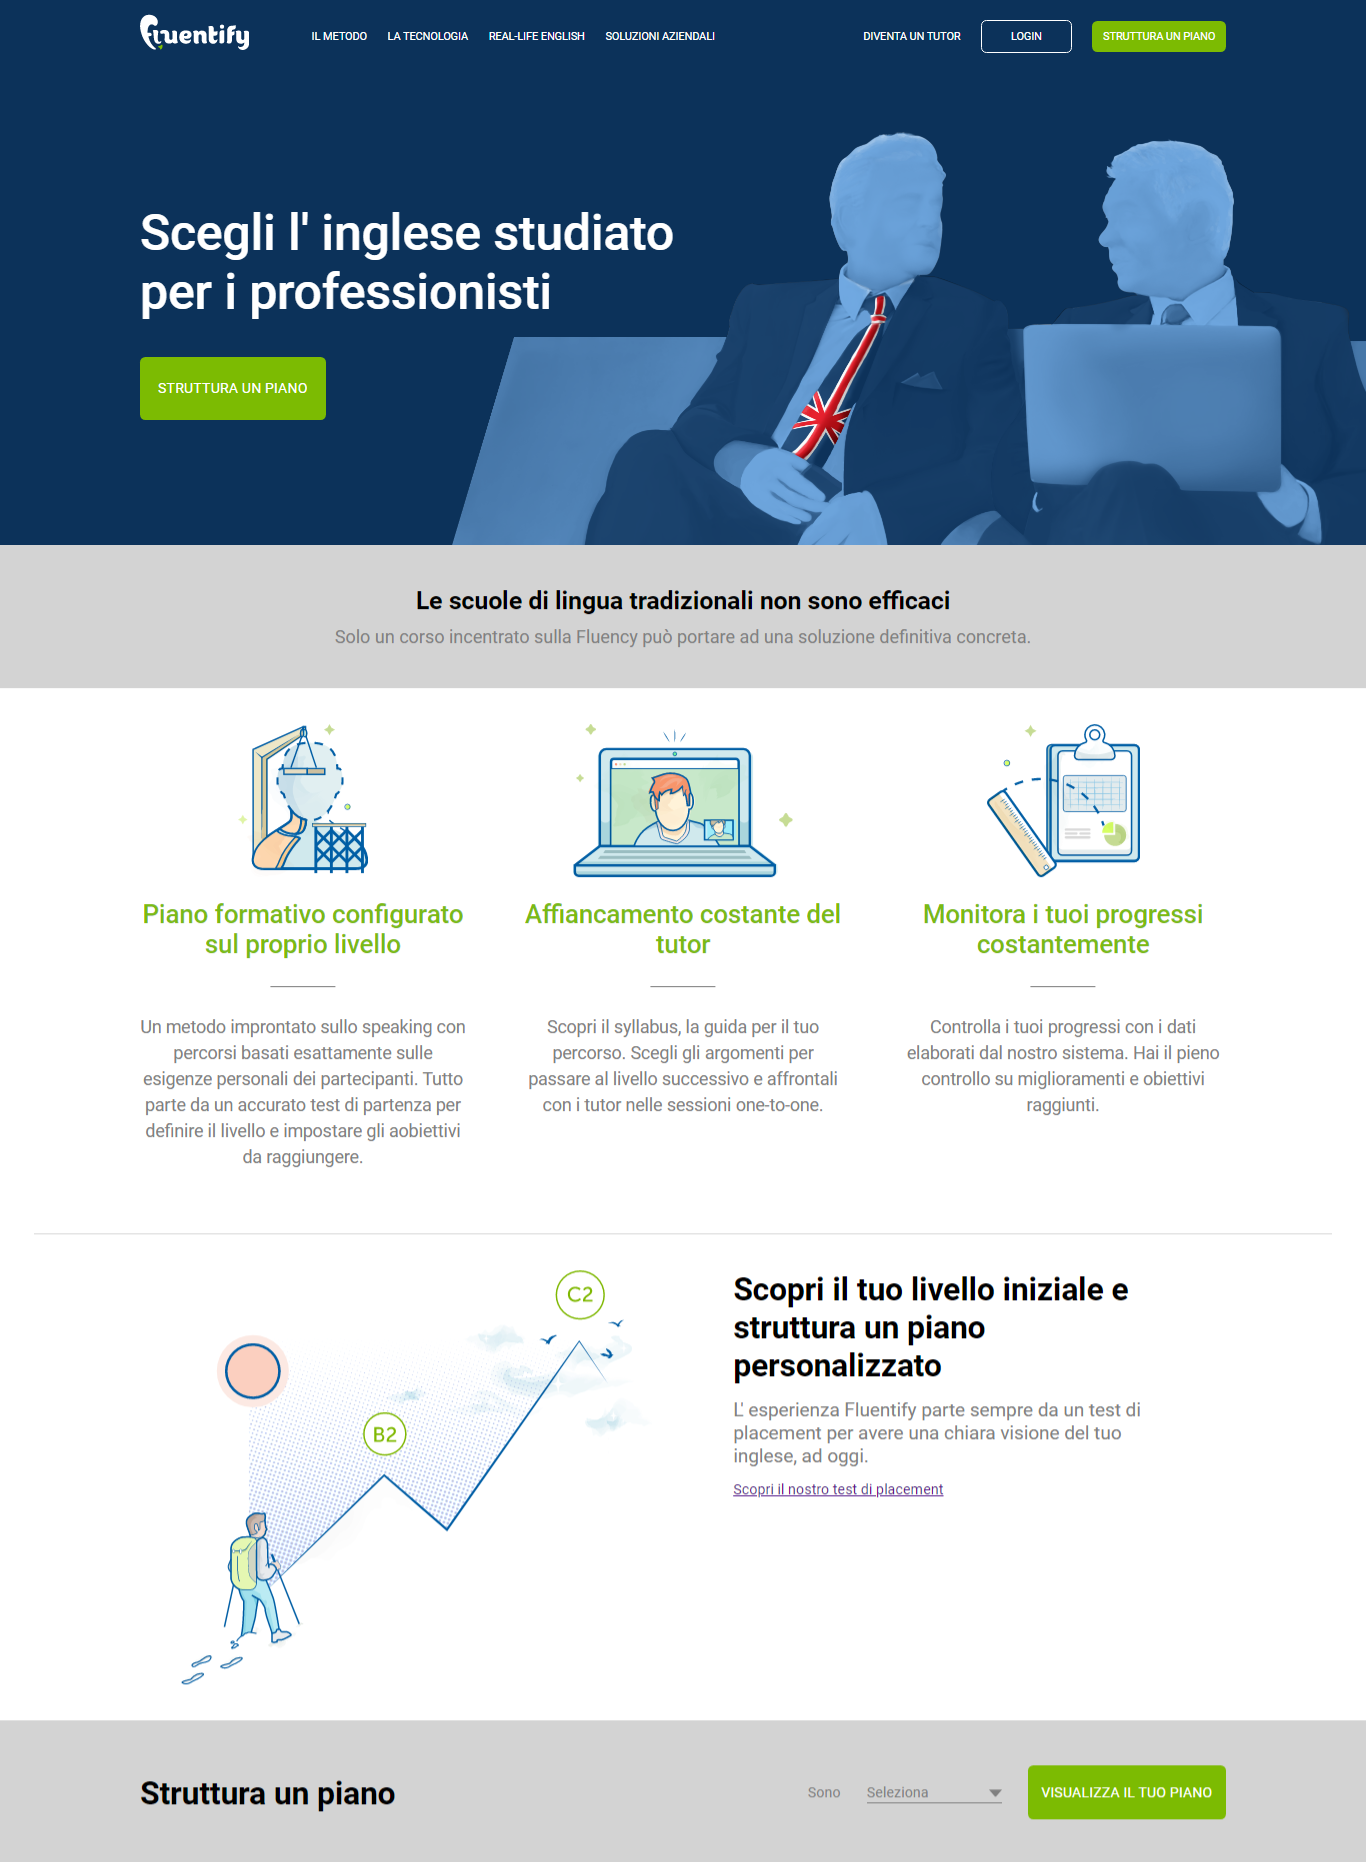
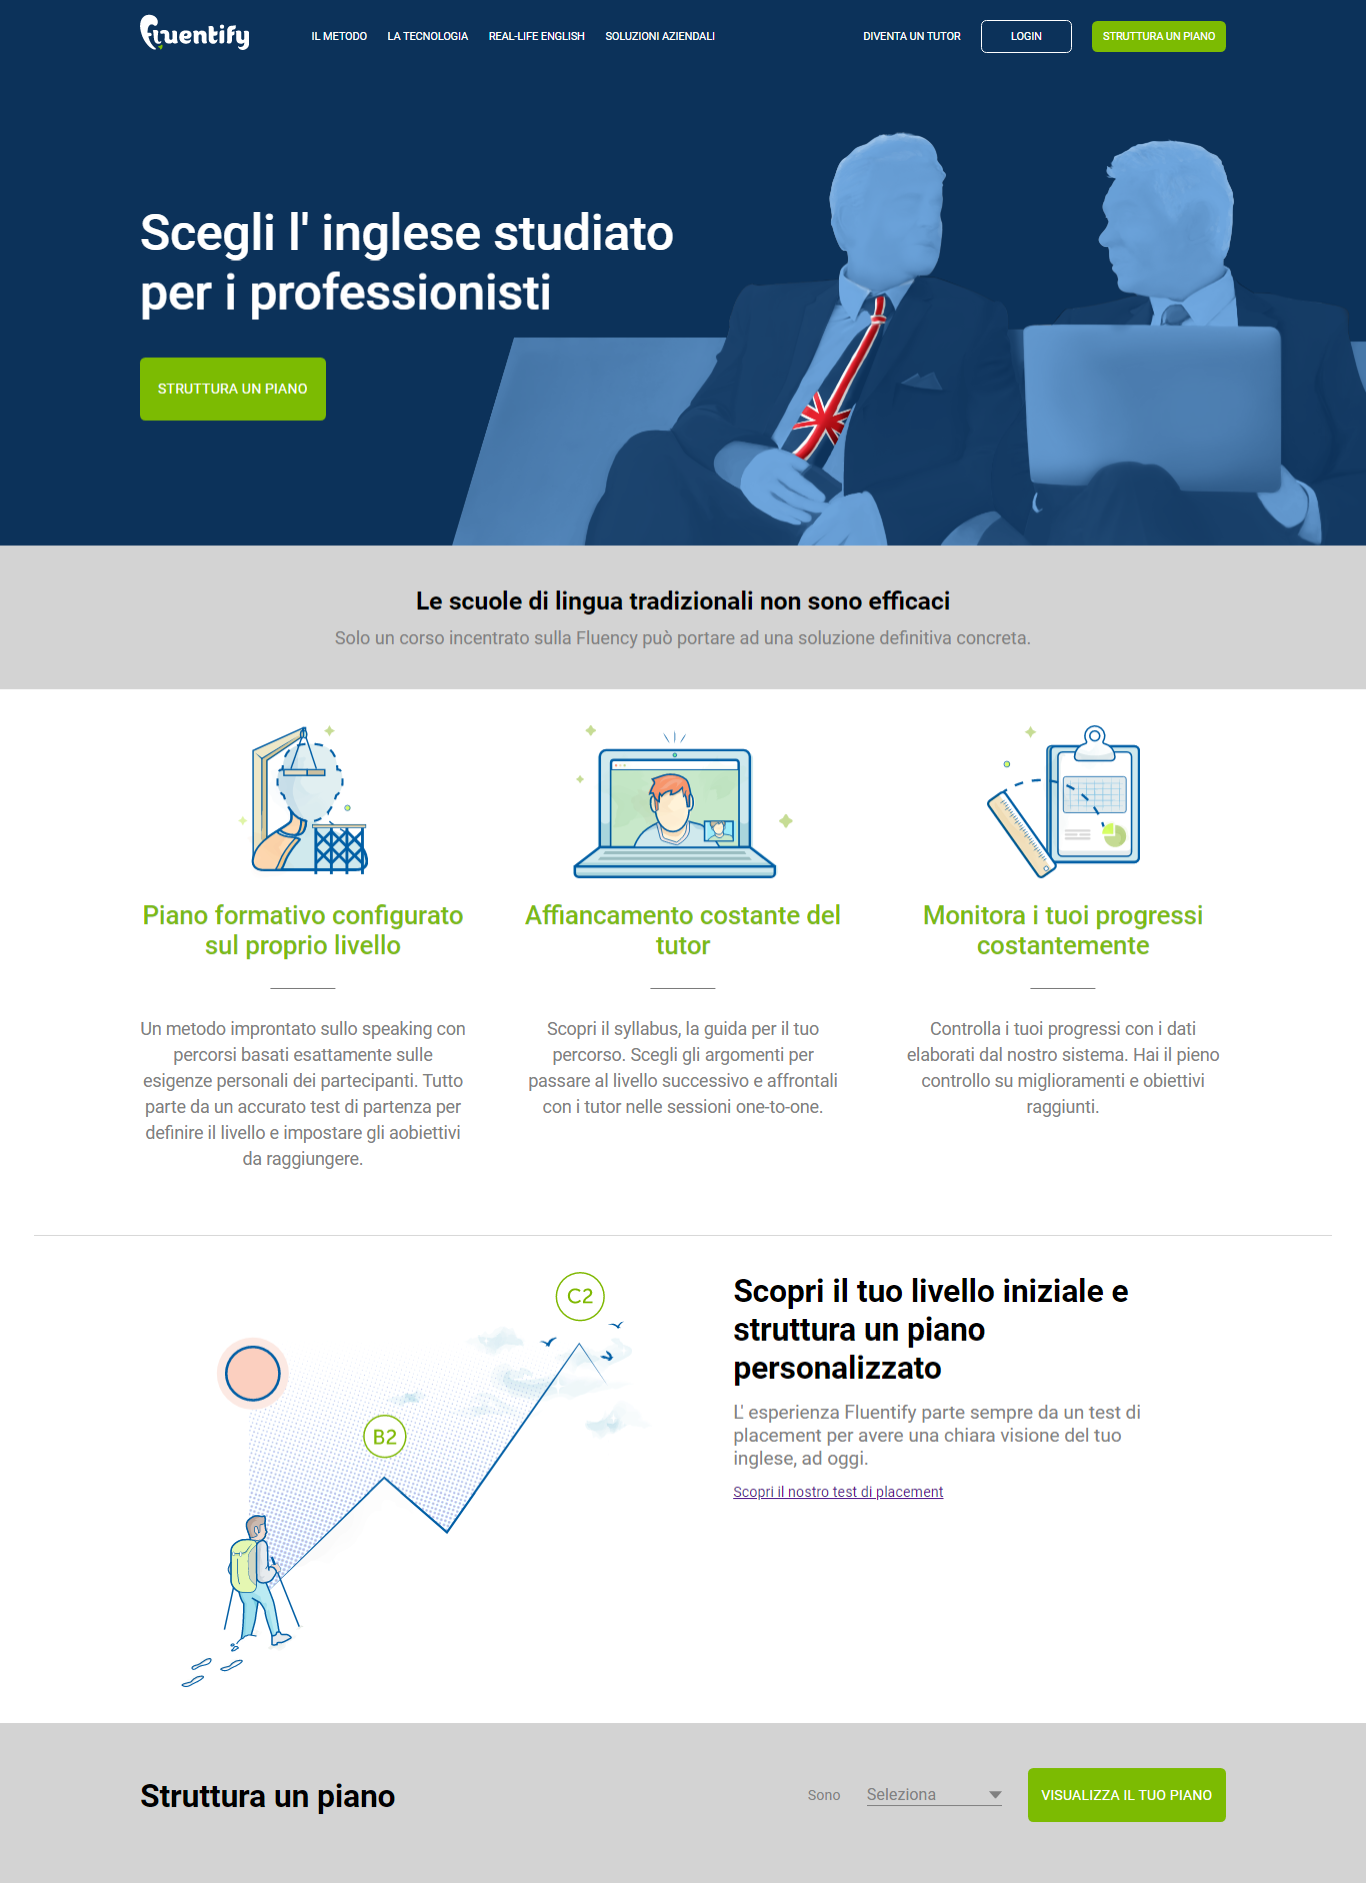
Screenshot

diff --git a/css/style.css b/css/style.css
@@ -249,7 +249,6 @@ footer .bottom-sections .select-plan .select {
   min-width: 150px;
   margin: 0 25px;
   border-bottom: solid 2px grey;
-
 }
 
 footer .bottom-sections .select-plan .select-caret-down {
@@ -259,7 +258,7 @@ footer .bottom-sections .select-plan .select-caret-down {
 	border-left: 7px solid transparent;
 	border-right: 7px solid transparent;
 	border-top: 8px solid grey;
-  transform: translateY(8px);
+  transform: translateY(8px)
 }
 
 footer .bottom-sections .select-plan .green-button-link {
